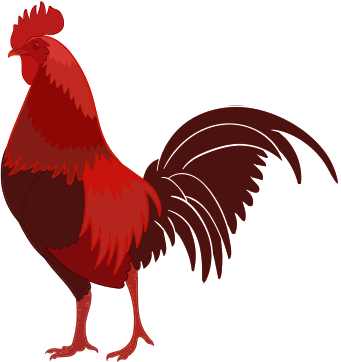
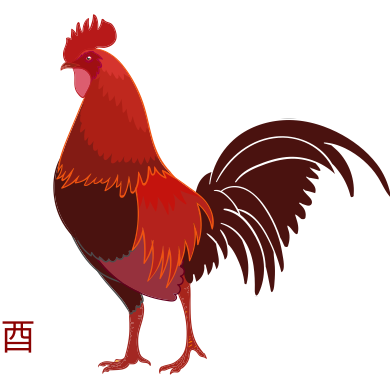
图片替换，鸡

diff --git a/description.html b/description.html
@@ -37,11 +37,6 @@
       }
     }
 
-    .note {
-      height: 11px;
-      animation: note 1s linear infinite;
-    }
-
     .music-label {
       display: block;
       width: 38px;
@@ -56,10 +51,23 @@
       background: url(img/icon_music1.png) 0 0 / auto 30px no-repeat;
     }
 
+    #music-select:checked+#music>.note {
+      animation: note 1s linear infinite;
+    }
+
     #music {
+      position: relative;
+      top: 20px;
       width: 38px;
       height: 30px;
       background: url(img/icon_music.png) 0 0 / auto 30px no-repeat;
+    }
+
+    .note {
+      position: absolute;
+      top: -14px;
+      right: 4px;
+      height: 11px;
     }
 
     #content {
@@ -145,10 +153,11 @@
 
 <body>
   <aside>
-    <img class="note" src="img/p_note.png" alt="note">
     <label class="music-label">
       <input type="checkbox" id="music-select">
-      <div id="music"></div>
+      <div id="music">
+        <img class="note" src="img/p_note.png" alt="note">
+      </div>
     </label>
     <audio src="#"></audio>
   </aside>

diff --git a/index.html b/index.html
@@ -116,7 +116,6 @@
     </section>
   </section>
   <footer>
-    <span class="year">酉</span>
     <img class="chicken" src="img/p_chicken.png" alt="logo">
   </footer>
 </body>
